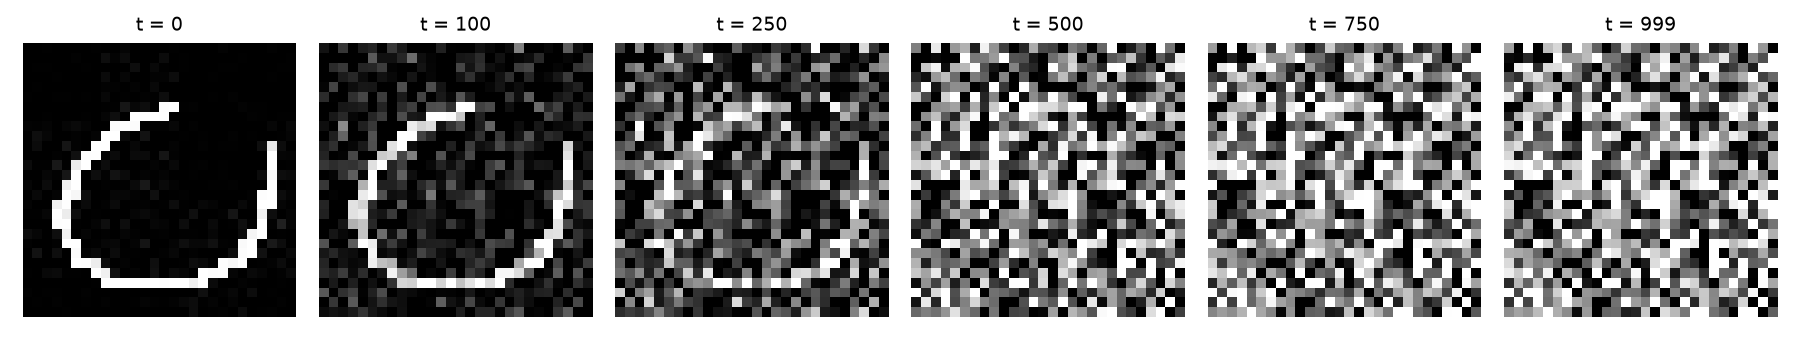
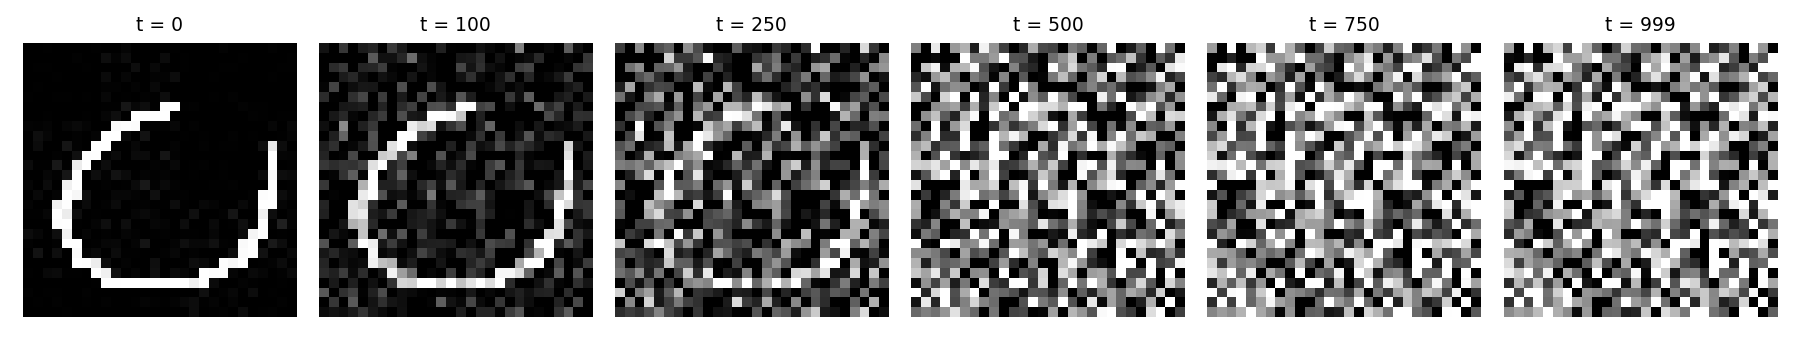
Part C: DDPM results, samples, denoising and blind test

diff --git a/part_c_diffusion/score_blind.py b/part_c_diffusion/score_blind.py
@@ -1,0 +1,45 @@
+"""Score the blind recognisability test (solo: member 1 only).
+Run AFTER you filled results/blind_test/guesses.csv without having seen the labels.
+Writes results/human_eval.csv.   python part_c_diffusion/score_blind.py"""
+import csv, json, sys
+from pathlib import Path
+
+ROOT = Path(__file__).resolve().parents[1]
+d = ROOT / "results" / "blind_test"
+
+
+def norm(s):
+    return " ".join(s.lower().split())
+
+
+classes = [norm(l) for l in (d / "class_list.txt").read_text(encoding="utf-8").splitlines() if l.strip()]
+key = {int(r["id"]): norm(r["true_class"]) for r in csv.DictReader(open(d / "_key_do_not_open.csv", encoding="utf-8"))}
+guess = {int(r["id"]): norm(r["guess"]) for r in csv.DictReader(open(d / "guesses.csv", encoding="utf-8"))}
+
+empty = [i for i, g in guess.items() if not g]
+unknown = [(i, g) for i, g in guess.items() if g and g not in classes]
+if empty:
+    sys.exit(f"Empty guesses for ids {empty}. Fill all 40 (make a best guess) before scoring.")
+if unknown:
+    sys.exit(f"These guesses are not in class_list.txt (check the spelling): {unknown}")
+
+rows, correct = [], 0
+for i in sorted(key):
+    ok = guess[i] == key[i]
+    correct += ok
+    rows.append([i, key[i], guess[i], int(ok), "NA", "NA", "NA"])      # solo: member 2 / agreement not applicable
+with open(ROOT / "results" / "human_eval.csv", "w", newline="", encoding="utf-8") as f:
+    w = csv.writer(f)
+    w.writerow(["id", "true_class", "member1_guess", "member1_correct",
+                "member2_guess", "member2_correct", "both_agreed"])
+    w.writerows(rows)
+json.dump({"member1_correct": correct, "total": len(rows), "member2": "NA (solo)", "both_agreed": "NA (solo)"},
+          open(ROOT / "results" / "blind_test_summary.json", "w"), indent=2)
+
+print(f"member 1 correct: {correct}/{len(rows)} ({100 * correct / len(rows):.1f}%)   chance level = 2.5%")
+print("member 2 and 'both agreed': N/A (solo submission)")
+print("wrong guesses:")
+for i, k, g, ok, *_ in rows:
+    if not ok:
+        print(f"  #{i:2d}: guessed '{g}', true '{k}'")
+print("saved results/human_eval.csv")
